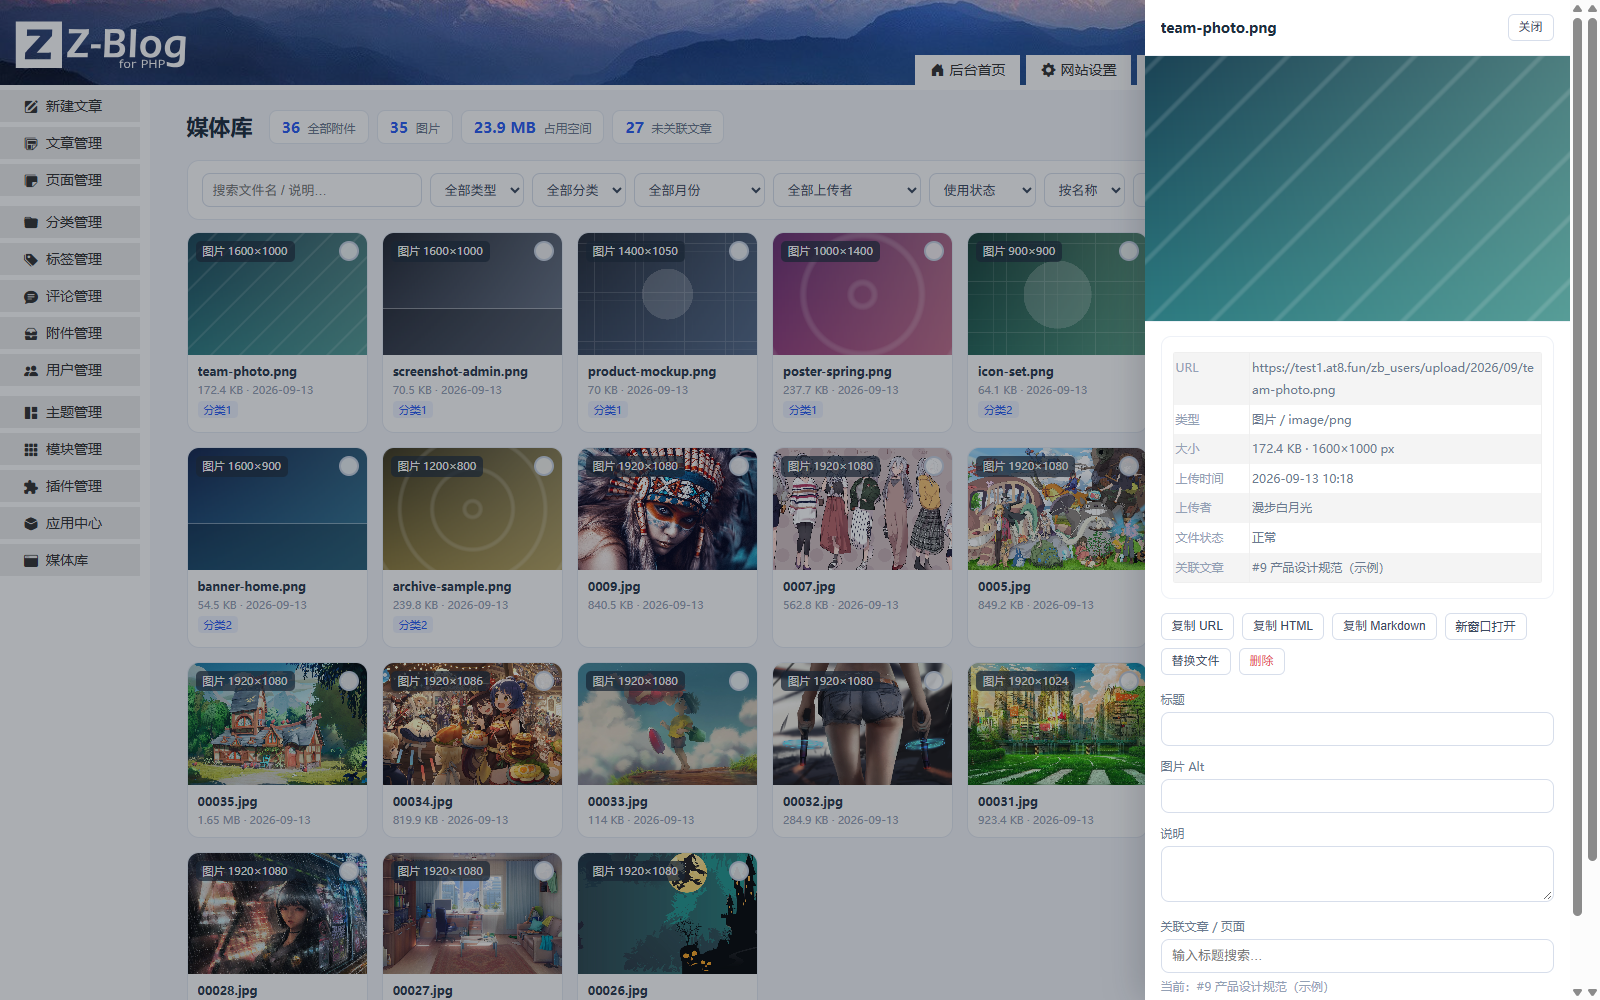
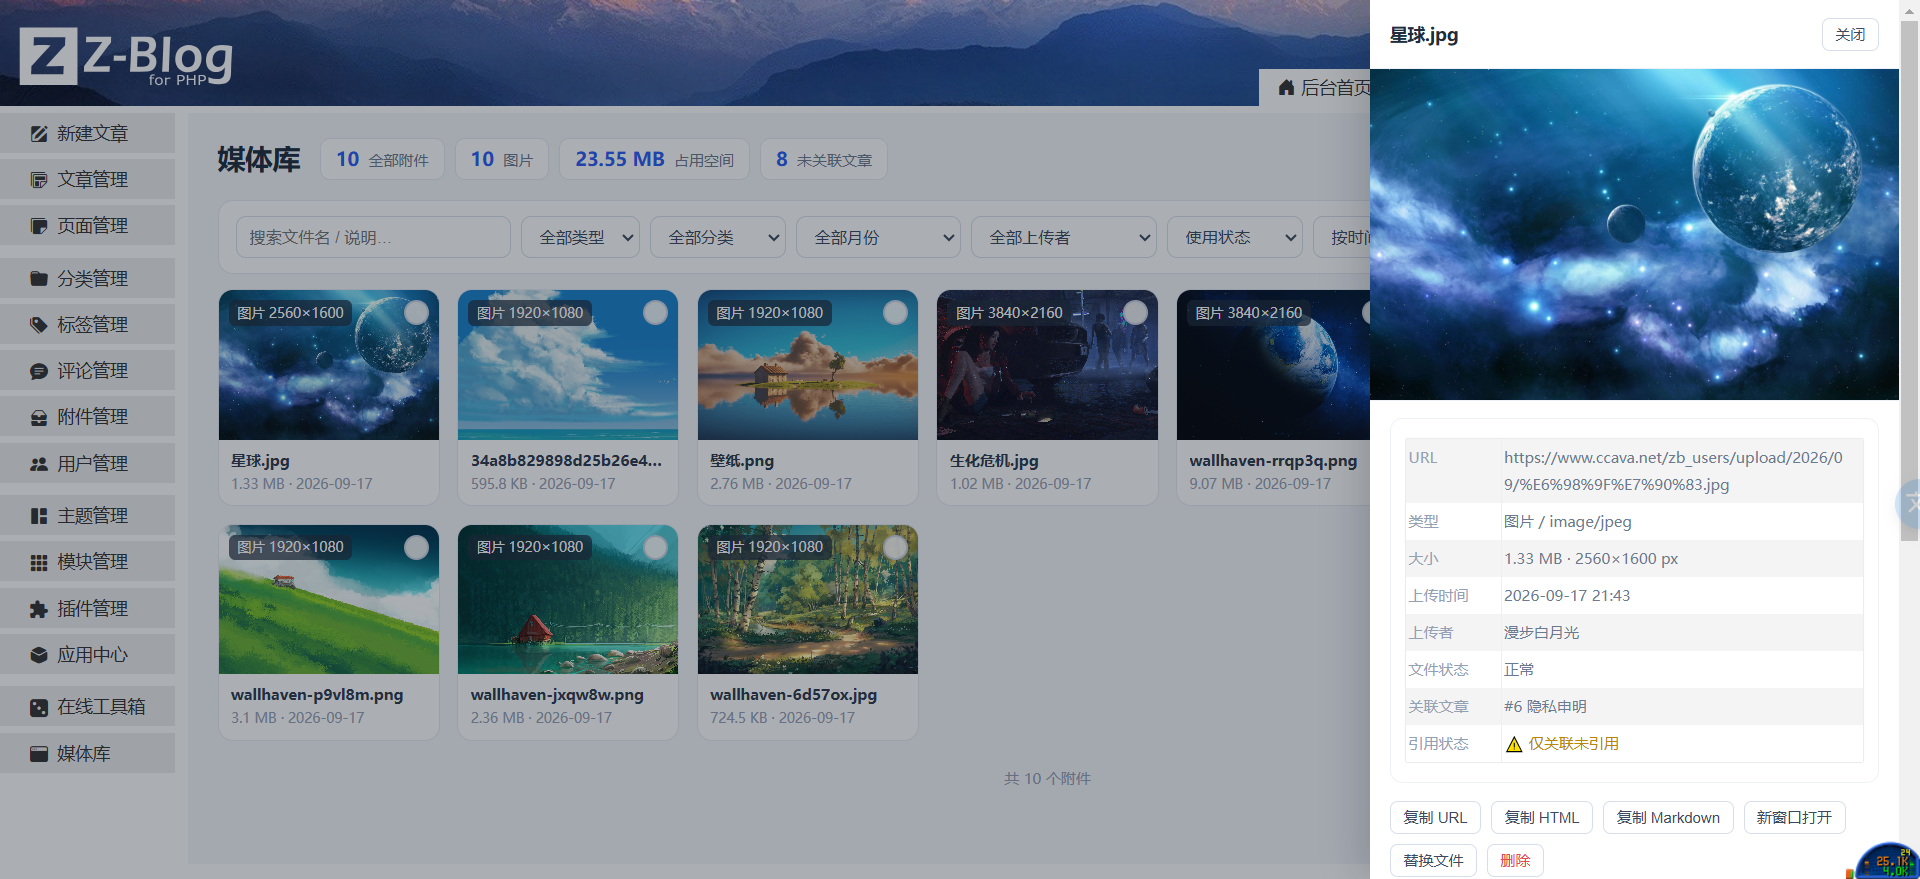
docs: 更新界面预览截图（详情抽屉引用状态 + 文章附件面板）

diff --git a/README.md b/README.md
@@ -18,9 +18,11 @@
 
 ## 界面预览
 
-| 相册网格总览 | 按文章分类筛选 | 附件详情与关联文章 |
-| --- | --- | --- |
-| ![相册网格总览](screenshots/01-相册网格总览.png) | ![按文章分类筛选](screenshots/02-按文章分类筛选.png) | ![附件详情与关联文章](screenshots/03-附件详情与关联文章.png) |
+| 相册网格总览 | 按文章分类筛选 |
+| --- | --- |
+| ![相册网格总览](screenshots/01-相册网格总览.png) | ![按文章分类筛选](screenshots/02-按文章分类筛选.png) |
+| **附件详情与引用状态检测** | **文章编辑页「文章附件」面板** |
+| ![附件详情与关联文章](screenshots/03-附件详情与关联文章.png) | ![文章关联附件管理](screenshots/04-文章关联附件管理.png) |
 
 > 截图仅用于文档展示，`zbignore.txt` 已将其排除在 zba 安装包之外。
 
